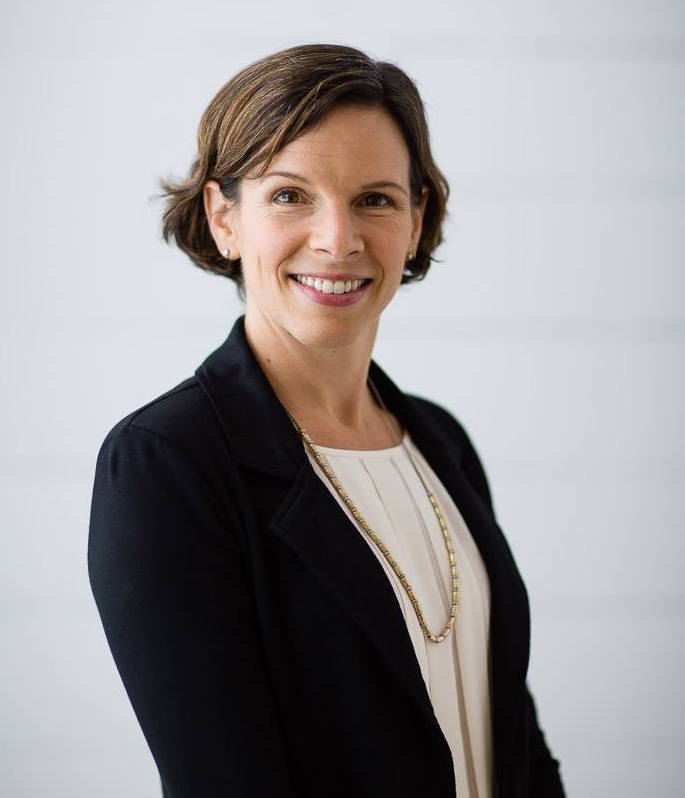
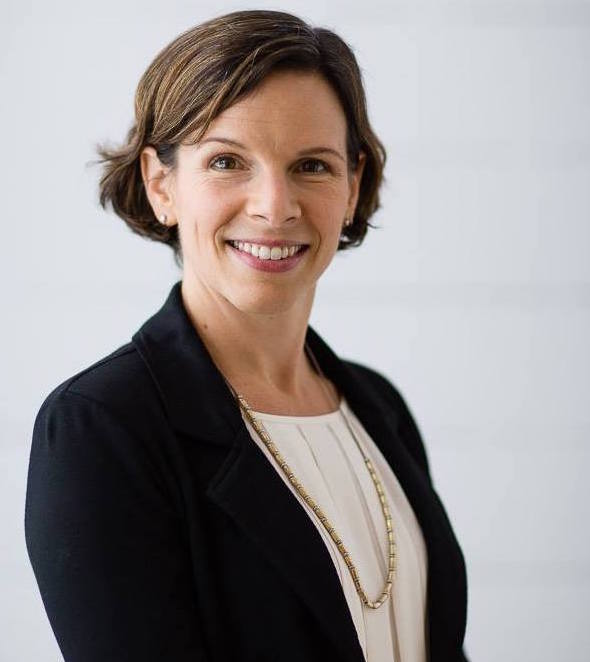
added davenport

diff --git a/_posts/21-1-1-Juliet-Davenport-OBE.md b/_posts/21-1-1-Juliet-Davenport-OBE.md
@@ -1,0 +1,8 @@
+---
+layout: template
+title: Juliet Davenport OBE
+image: Juliet-Davenport-OBE.jpg
+link: https://en.wikipedia.org/wiki/Juliet_Davenport
+---
+
+Juliet Davenport OBE is the founder and CEO of Good Energy, one of the UK’s first entirely renewable electricity supplier and generator companies. Juliet built Good Energy from scratch in 1999. Her mission then, as it is now, was to tackle climate change, help deliver energy security for the UK, and give consumers the opportunity to buy and invest in 100% renewable electricity. Juliet is also a founding director of the POWERful Women initiative, which supports improving gender diversity in the energy industry.
